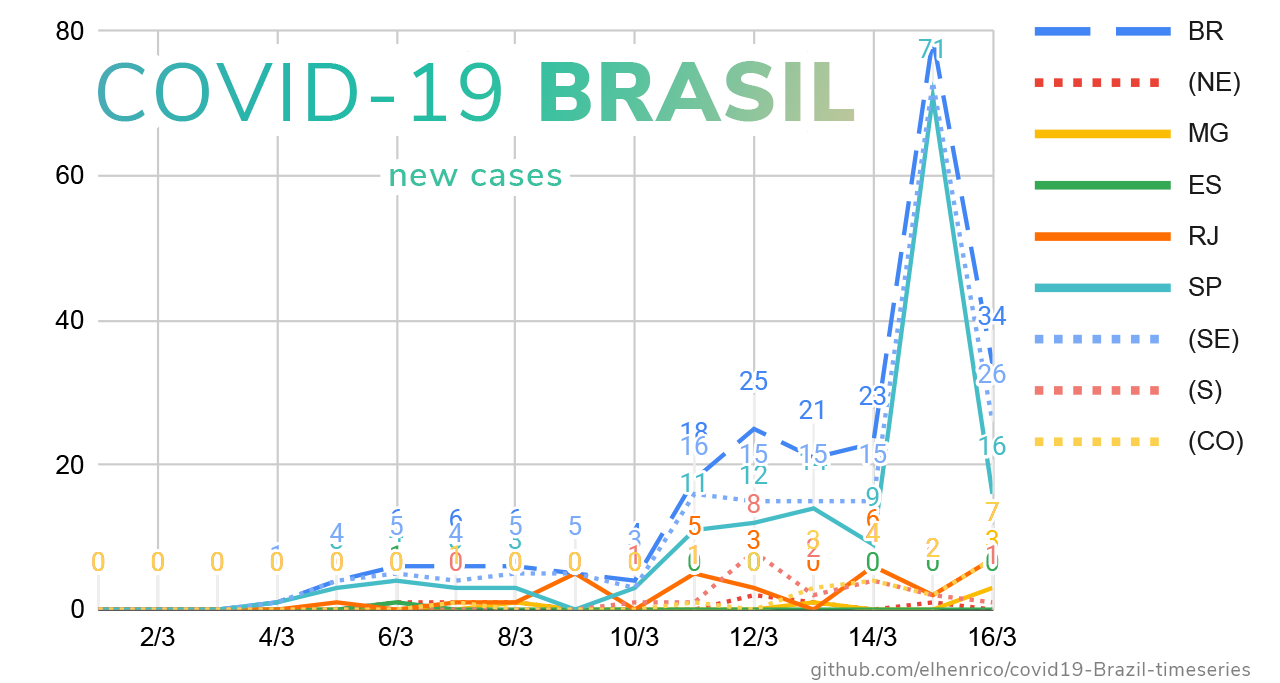
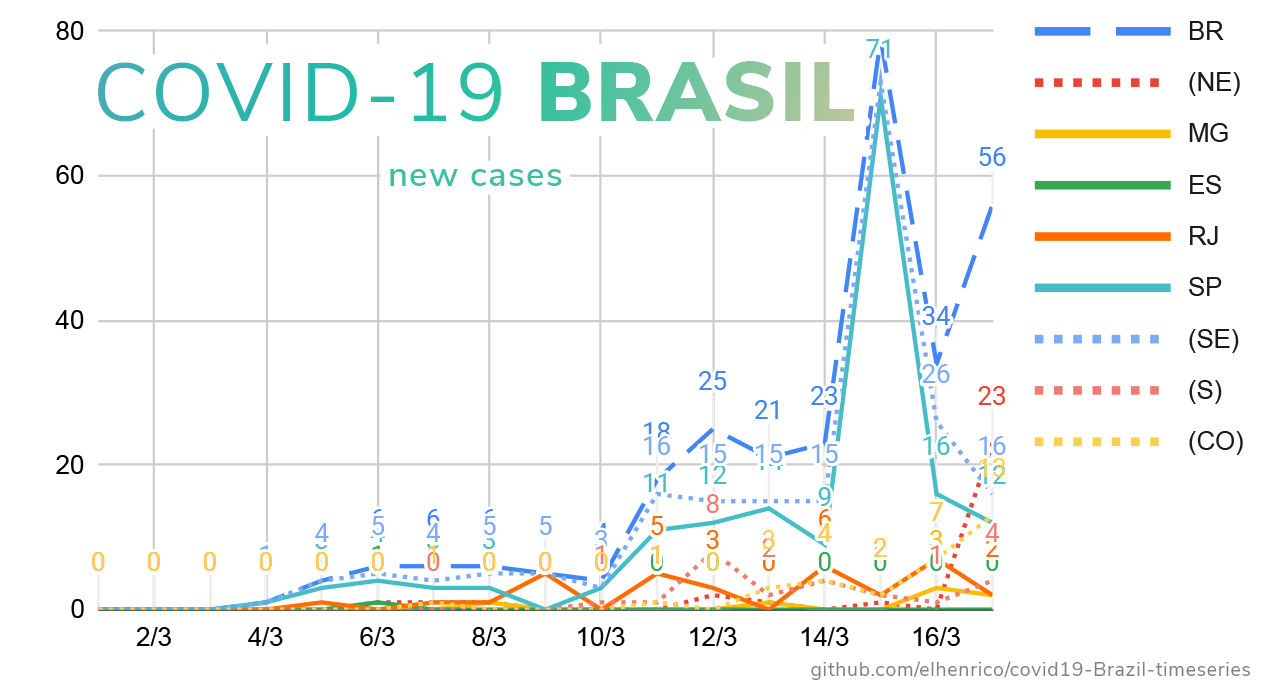
chore: Update data

diff --git a/README.md b/README.md
@@ -1,6 +1,6 @@
 # COVID-19 Brazil - time series
 
-<kbd>Latest: 16/03/2020 15:50 (Brasilia Standard Time)</kbd>
+<kbd>Latest: 17/03/2020 16:00 (Brasilia Standard Time)</kbd>
 
 ### Confirmed Cases (linear)
 ![Confirmed Linear Chart](/docs/linear.png)
@@ -9,6 +9,8 @@
 ![New Linear Chart](/docs/linear-new.png)
 
 fonte/source: [Ministério da Saúde](http://plataforma.saude.gov.br/novocoronavirus/)
+
+[repo data on google sheets](https://docs.google.com/spreadsheets/d/1L1CnyeKA8ZJprzFCa3ZiRIzcP44mahmcG4M_hnlbMFQ/edit?usp=sharing)
 
 Coletando dados para análise da evolução do vírus por estado.
 
@@ -25,7 +27,5 @@ I started this work as I could not find a public and easy access source to the c
 Feel free to contribute.
 
 
-
-planilha no [google sheets](https://docs.google.com/spreadsheets/d/1L1CnyeKA8ZJprzFCa3ZiRIzcP44mahmcG4M_hnlbMFQ/edit?usp=sharing)
 
 <kbd>Corona</kbd> <kbd>Virus</kbd> <kbd>Brasil</kbd> <kbd>Tabela</kbd> <kbd>Casos</kbd> <kbd>COVID-19</kbd>
